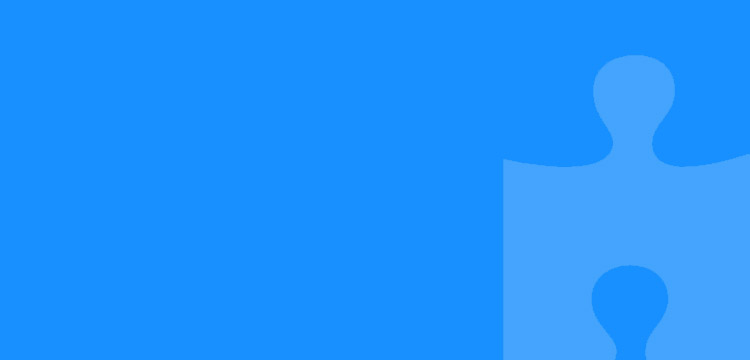
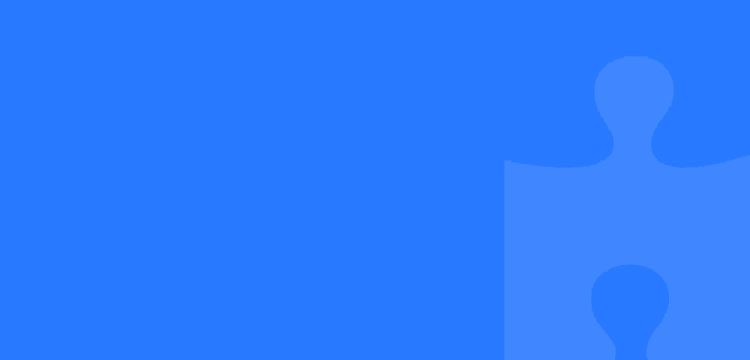
userInfo vuex

Changed region(s): [[0.644, 0.1528, 1.0, 1.0]]

diff --git a/roc-uniapp/pages/my/profileEdit.vue b/roc-uniapp/pages/my/profileEdit.vue
@@ -1,6 +1,6 @@
 <template>
-  <view class="profile-container">
-    <roc-navbar title="个人信息"></roc-navbar>
+  <view class="profile-edit-container">
+    <roc-navbar title="修改信息"></roc-navbar>
     <view class="row">
       <view class="left">头像</view>
       <view class="right">
@@ -40,42 +40,32 @@
         <input class="input-dom" placeholder="请输入邮箱" type="text" v-model="user.email" />
       </view>
     </view>
+    <u-button class="roc-btn" type="primary">提交</u-button>
     <!-- other-cpn -->
-    <u-picker
-      v-model="sexIsShow"
-      mode="selector"
-      confirm-color="#0F965B"
-      :range="sexList"
-      @confirm="confirmSex"
-    ></u-picker>
+    <u-picker v-model="sexIsShow" mode="selector" :range="sexList" @confirm="confirmSex"></u-picker>
   </view>
 </template>
 
 <script>
 import { getUserProfile } from '@/api/system/user.js'
+import { mapGetters } from 'vuex'
 
 export default {
   data() {
     return {
-      user: {},
       sexIsShow: false,
       sexList: ['男', '女'],
     }
   },
-  onLoad() {
-    this.getUser()
-  },
   computed: {
+    ...mapGetters({
+      user: 'user',
+    }),
     sexType() {
       return this.sexList[this.user.sex]
     },
   },
   methods: {
-    getUser() {
-      getUserProfile().then(response => {
-        this.user = response.data
-      })
-    },
     confirmSex(e) {
       this.user.sex = e[0]
     },
@@ -86,7 +76,7 @@ export default {
 <style lang="scss" scoped>
 page {
   background-color: #fff;
-  .profile-container {
+  .profile-edit-container {
     padding: 0 24rpx;
     .row {
       display: flex;
@@ -132,6 +122,9 @@ page {
           height: 28rpx;
         }
       }
+    }
+    .roc-btn {
+      margin-top: 100rpx;
     }
   }
 }

diff --git a/roc-uniapp/pages/my/my.vue b/roc-uniapp/pages/my/my.vue
@@ -12,7 +12,7 @@
         <view class="username">{{ user.nickName }}</view>
         <view class="sysid">账号：{{ user.userName }}</view>
       </view>
-      <view class="btn-my-info" @click="toPageProfile">个人信息</view>
+      <view class="btn-my-info" @click="toPageProfile">修改信息</view>
     </view>
     <view class="profile-main">
       <view class="list-box">
@@ -39,35 +39,29 @@
 <script>
 import { tokenKey } from '@/common/config.js'
 import { getUserProfile } from '@/api/system/user.js'
+import { mapGetters } from 'vuex'
 
 export default {
   data() {
     return {
       // 缓存文件大小
       cacheSizeString: '',
-      user: {},
-      roleGroup: {},
-      postGroup: {},
-      activeTab: 'userinfo',
     }
   },
   onLoad() {
-    this.getUser()
     this.formatSize()
   },
   onShow() {
     if (!this.$u.getStorage(tokenKey)) this.$u.route('/pages/login/login')
   },
+  computed: {
+    ...mapGetters({
+      user: 'user',
+    }),
+  },
   methods: {
     toPageProfile() {
-      this.$u.route('/pages/profile/profile')
-    },
-    getUser() {
-      getUserProfile().then(response => {
-        this.user = response.data
-        this.roleGroup = response.roleGroup
-        this.postGroup = response.postGroup
-      })
+      this.$u.route('/pages/my/profileEdit')
     },
     handleExit() {
       const that = this

diff --git a/roc-uniapp/store/modules/user.js b/roc-uniapp/store/modules/user.js
@@ -3,19 +3,39 @@ import {
   logout
 } from '@/api/login.js'
 import {
+  getUserProfile
+} from '@/api/system/user.js'
+import {
   tokenKey
 } from '@/common/config.js'
 
 const state = {
-  token: uni.$u.getStorage(tokenKey)
+  token: uni.$u.getStorage(tokenKey),
+  user: uni.$u.getStorage('user'),
 }
 const mutations = {
   SET_TOKEN: (state, token) => {
     state.token = token
     uni.$u.setStorage(tokenKey, token)
+  },
+  SET_USER: (state, user) => {
+    state.user = user
+    uni.$u.setStorage('user', user)
   }
 }
 const actions = {
+  UserProfile: ({
+    commit
+  }) => {
+    return new Promise((resolve, reject) => {
+      getUserProfile().then((res) => {
+        commit('SET_USER', res.data)
+        resolve()
+      }).catch((error) => {
+        reject(error)
+      })
+    })
+  },
   Login: ({
     commit
   }, userInfo) => {
@@ -41,6 +61,7 @@ const actions = {
     return new Promise((resolve, reject) => {
       logout(state.token).then(() => {
         commit('SET_TOKEN', '')
+        commit('SET_USER', '')
         uni.$u.clearStorage()
         resolve()
       }).catch(error => {

diff --git a/roc-uniapp/pages/login/login.vue b/roc-uniapp/pages/login/login.vue
@@ -74,12 +74,11 @@ export default {
         url: '/pages/index/index',
       })
     }
-    // 工具集
-    // console.log(this.$u)
   },
   methods: {
     ...mapActions({
       login: 'Login',
+      userProfile: 'UserProfile',
     }),
     getCode() {
       getCodeImg().then(res => {
@@ -92,7 +91,8 @@ export default {
     },
     async handleLogin() {
       try {
-        const token = await this.login(this.loginForm)
+        await this.login(this.loginForm)
+        await this.userProfile()
         this.$u.route({
           type: 'tab',
           url: '/pages/index/index',
@@ -109,6 +109,7 @@ export default {
 
 <style lang="scss" scoped>
 page {
+  background-color: #fff;
   .login-container {
     background: url(../../static/images/login-bg.jpg) no-repeat;
     background-size: 100% 360rpx;

diff --git a/roc-uniapp/components/roc-navbar/roc-navbar.vue b/roc-uniapp/components/roc-navbar/roc-navbar.vue
@@ -50,9 +50,9 @@ export default {
         },
         color: '#fff',
         bgColor: {
-          background: '#1890ff',
+          background: '#2979ff',
         },
-        background: '#1890ff',
+        background: '#2979ff',
         isshow: true,
         titleColor: '#fff',
         titleSize: '35',

diff --git a/roc-uniapp/pages/work/work.vue b/roc-uniapp/pages/work/work.vue
@@ -1,5 +1,8 @@
 <template>
-  <view class="work-container"><roc-navbar title="工作台"></roc-navbar></view>
+  <view class="work-container">
+    <roc-navbar title="工作台"></roc-navbar>
+    <view>工作台</view>
+  </view>
 </template>
 
 <script>

diff --git a/roc-uniapp/uni.scss b/roc-uniapp/uni.scss
@@ -17,7 +17,7 @@
 /* 颜色变量 */
 
 /* 行为相关颜色 */
-$uni-color-primary: #1890ff;
+$uni-color-primary: #2979ff;
 $uni-color-success: #4cd964;
 $uni-color-warning: #f0ad4e;
 $uni-color-error: #dd524d;

diff --git a/roc-uniapp/store/getters.js b/roc-uniapp/store/getters.js
@@ -3,5 +3,6 @@
  */
 const getters = {
   token: state => state.user.token,
+  user: state => state.user.user,
 }
 export default getters
